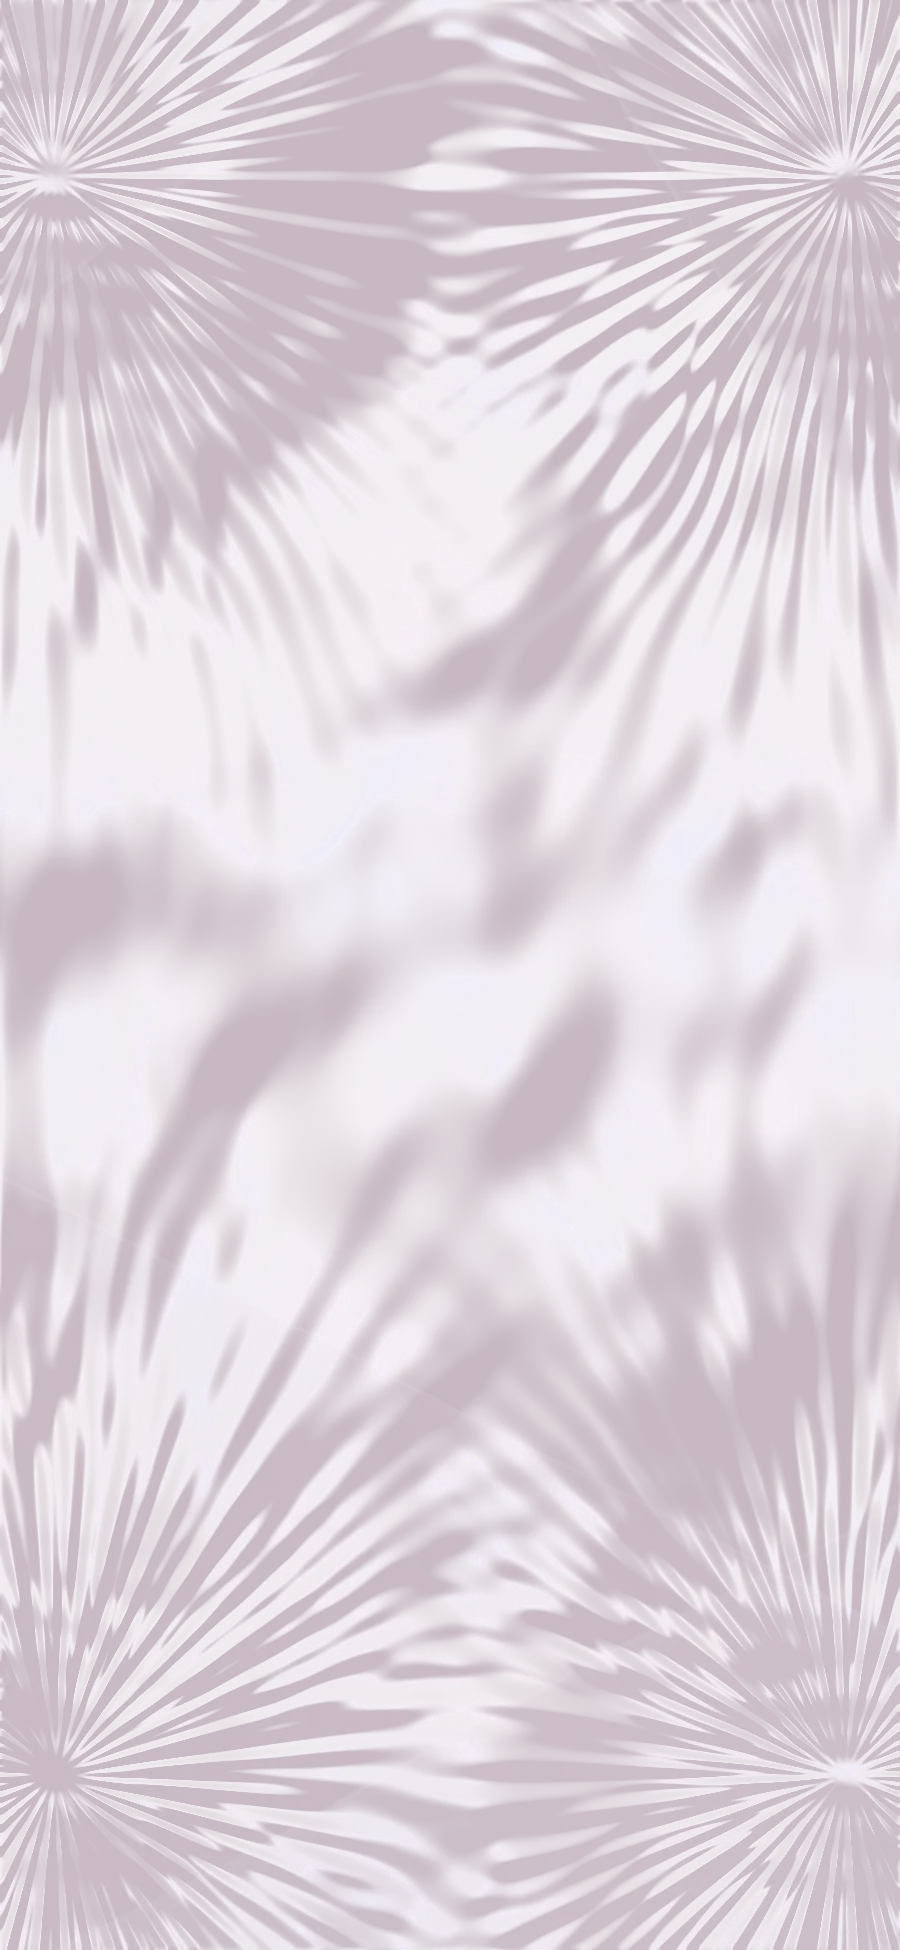
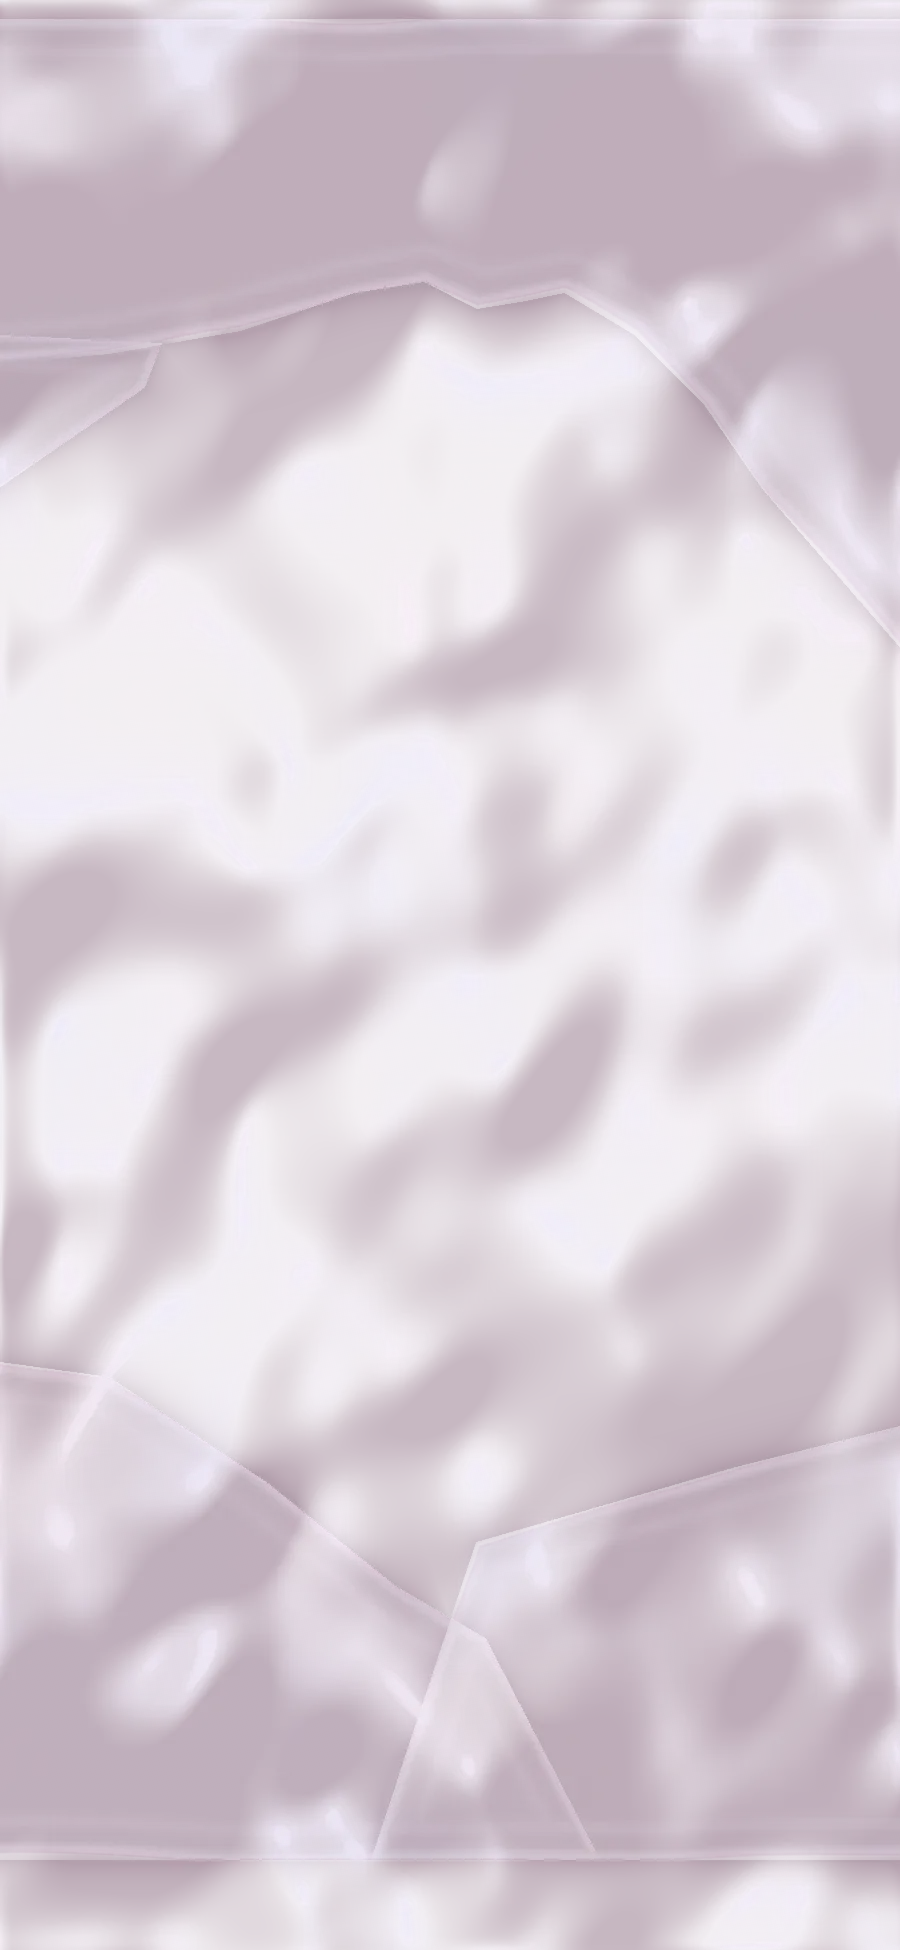
Website: fabric sheet has folded-over borders at the edges as in the reference (wavy top edge, diagonal corner layers); no wrinkles over the card

diff --git a/Wedding Website/tools/make_assets.py b/Wedding Website/tools/make_assets.py
@@ -394,7 +394,7 @@ def _onoise(h, w, scale, octaves=4, seed=0):
         out += amp * cv2.resize(g, (w, h), interpolation=cv2.INTER_CUBIC); tot += amp; amp *= 0.5
     return out / tot
 
-WRINKLE = 0.035
+WRINKLE = 0.0
 
 def organza_rgba():
     yy, xx = np.mgrid[0:H, 0:W].astype(np.float32)
@@ -437,6 +437,28 @@ def organza_rgba():
         d += 10 * (_onoise(H, W, 340, 2, int(abs(ang)) + 20) - 0.5)
         layer += la * np.clip(side * d / 3.0, 0, 1)
         crease += (np.exp(-(d / 2.6) ** 2) + 0.3 * np.exp(-np.clip(side * d, 0, None) / 22) * (side * d > 0)) * (0.55 + 0.45 * _onoise(H, W, 90, 2, int(abs(ang)) + 40))
+    # ---- the sheet's own borders, folded over at the edges (nothing of this lies over the middle of the card) ----
+    def _to_sheet(px, py):                       # reference-frame px -> sheet px (frame is at ~0.9 zoom; sheet is 1.28x the card)
+        uf = 0.5 + (px / 780 - 0.5) * 0.97; vf = 0.47 + (py / 1580 - 0.47) * 0.97
+        return ((0.109 + 0.782 * uf) * W, (0.134 + 0.732 * vf) * H)
+    FOLDS = [   # (polygon in reference px, how much denser the doubled cloth is)
+        ([(-150, -300), (-150, 95), (0, 82), (150, 55), (280, 12), (360, 0), (420, 30), (470, 22), (520, 12), (600, 60), (680, 140), (745, 235), (950, 470), (950, -300)], 0.9),
+        ([(-150, 1230), (0, 1250), (180, 1370), (330, 1490), (430, 1548), (560, 1800), (-150, 1800)], 1.0),
+        ([(420, 1438), (720, 1352), (950, 1296), (950, 1800), (300, 1800)], 0.8),
+        ([(-150, 250), (40, 120), (60, 70), (-150, 60)], 0.6),
+    ]
+    fold_layer = np.zeros((H, W), np.float32); fold_edge = np.zeros((H, W), np.float32); fold_shadow = np.zeros((H, W), np.float32)
+    for k, (poly, dens) in enumerate(FOLDS):
+        pts = np.array([_to_sheet(x, y) for x, y in poly], np.float32)
+        m = np.zeros((H, W), np.uint8); cv2.fillPoly(m, [np.round(pts).astype(np.int32)], 1)
+        wobble = 14 * (_onoise(H, W, 300, 2, 70 + k) - 0.5)                       # the cut edge is soft and slightly wavy
+        d_in = cv2.distanceTransform(m, cv2.DIST_L2, 5) + wobble * m
+        d_out = cv2.distanceTransform(1 - m, cv2.DIST_L2, 5)
+        inside = smooth01(d_in / 3.0) * m
+        fold_layer = np.maximum(fold_layer, dens * inside)
+        fold_edge = np.maximum(fold_edge, np.exp(-((d_in - 5.0) / 6.5) ** 2) * m)                      # the rolled hem catches the light
+        fold_edge = np.maximum(fold_edge, 0.45 * np.exp(-((d_in - 34) / 7.0) ** 2) * m * (0.5 + 0.5 * _onoise(H, W, 160, 2, 80 + k)))  # one soft crease just inside
+        fold_shadow = np.maximum(fold_shadow, np.exp(-d_out / 16.0) * (1 - m))                         # and it shades the sheet beneath
     nrm = np.dstack([-gx, -gy, np.ones_like(h)]); nrm /= np.linalg.norm(nrm, axis=2, keepdims=True)
     l = np.array([-0.34, -0.60, 0.72]); l /= np.linalg.norm(l); hv = l + [0, 0, 1]; hv /= np.linalg.norm(hv)
     nh = np.clip((nrm * hv).sum(2), 0, 1); diff = np.clip((nrm * l).sum(2), 0, 1)
@@ -445,12 +467,12 @@ def organza_rgba():
     glow = np.clip((nh - lo) / (mid - lo), 0, 1) ** 1.6
     glint = np.clip((nh - mid) / (hi - mid), 0, 1) ** 1.5
     weave = 0.5 + 0.5 * np.sin((xx * 0.86 + yy * 0.5) * 2 * math.pi / 3.1) * np.sin((xx * -0.5 + yy * 0.86) * 2 * math.pi / 3.1)   # fine organza weave
-    hl = np.clip(0.40 * glow + 0.52 * glint + 0.16 * crease + 0.17 * np.clip(layer, 0, 1), 0, 1) * (0.90 + 0.10 * weave)
+    hl = np.clip(0.40 * glow + 0.52 * glint + 0.24 * fold_layer + 0.30 * fold_edge, 0, 1) * (0.90 + 0.10 * weave)
     tint = _onoise(H, W, 200, 2, 8)[..., None]
     c_hl = np.array([250, 240, 248], np.float32) * (1 - tint) + np.array([236, 236, 255], np.float32) * tint
     c_veil = np.array([150, 122, 140], np.float32)                 # the film itself: a thin rosy-mauve veil
     shade = np.clip(1.0 - diff * 1.2, 0, 1)
-    a_veil = np.clip(0.12 + 0.42 * shade + 0.06 * np.clip(layer, 0, 1), 0, 0.55)
+    a_veil = np.clip(0.12 + 0.42 * shade + 0.30 * fold_layer + 0.24 * fold_shadow, 0, 0.72)
     a_hl = np.clip(0.86 * hl, 0, 0.86)
     a = a_veil + a_hl * (1 - a_veil)
     rgb = (c_veil * (a_veil * (1 - a_hl))[..., None] + c_hl * a_hl[..., None]) / np.maximum(a[..., None], 1e-4)
